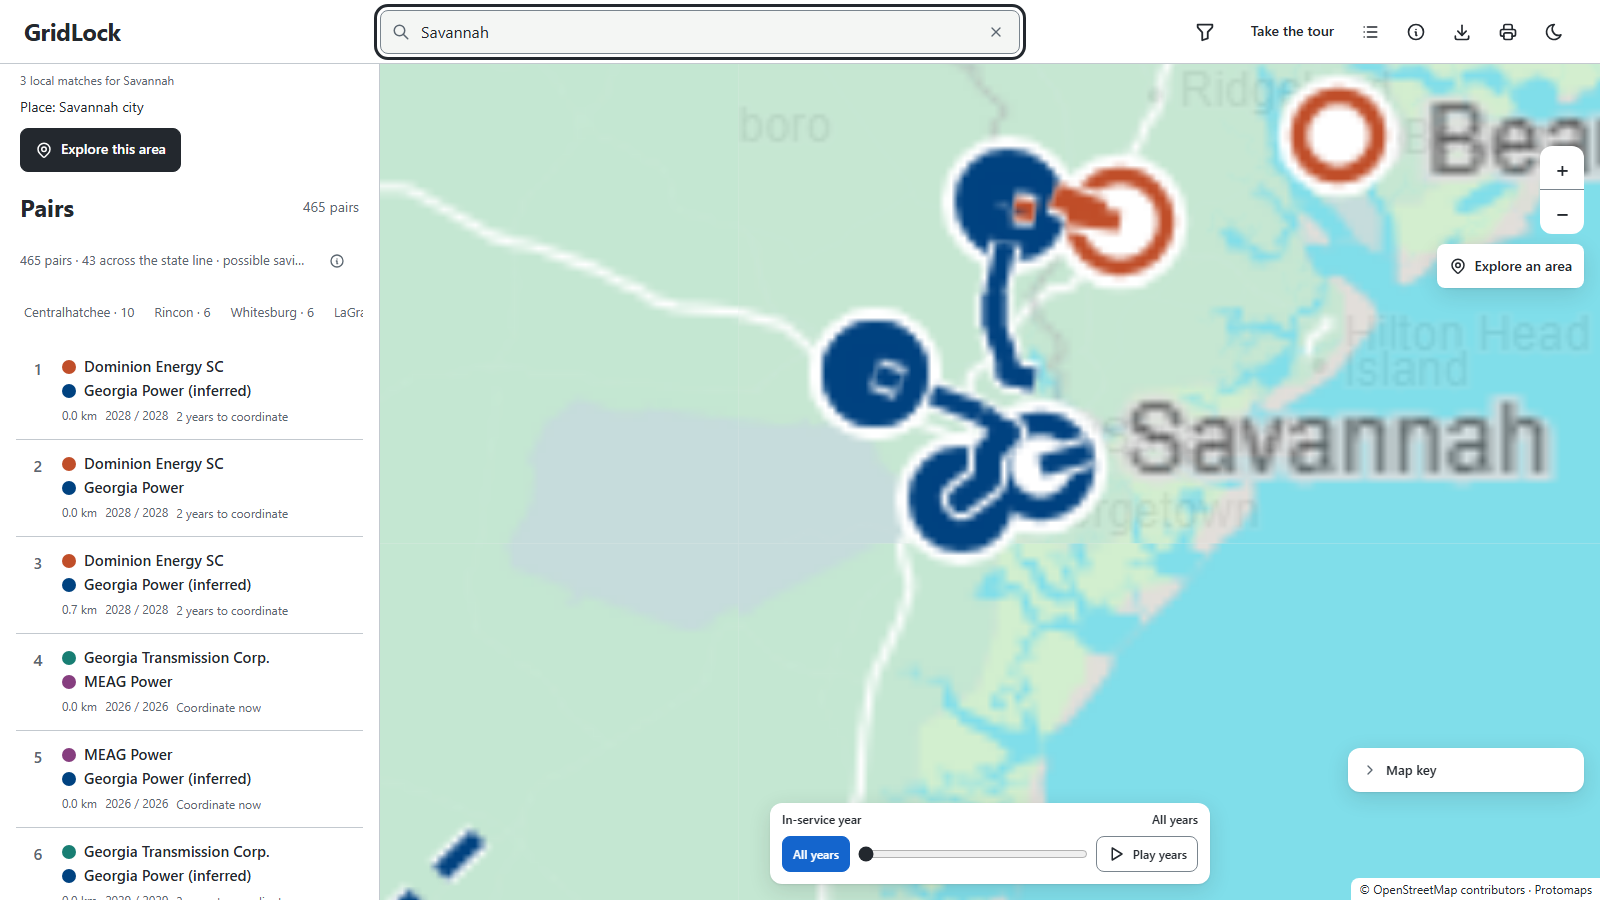
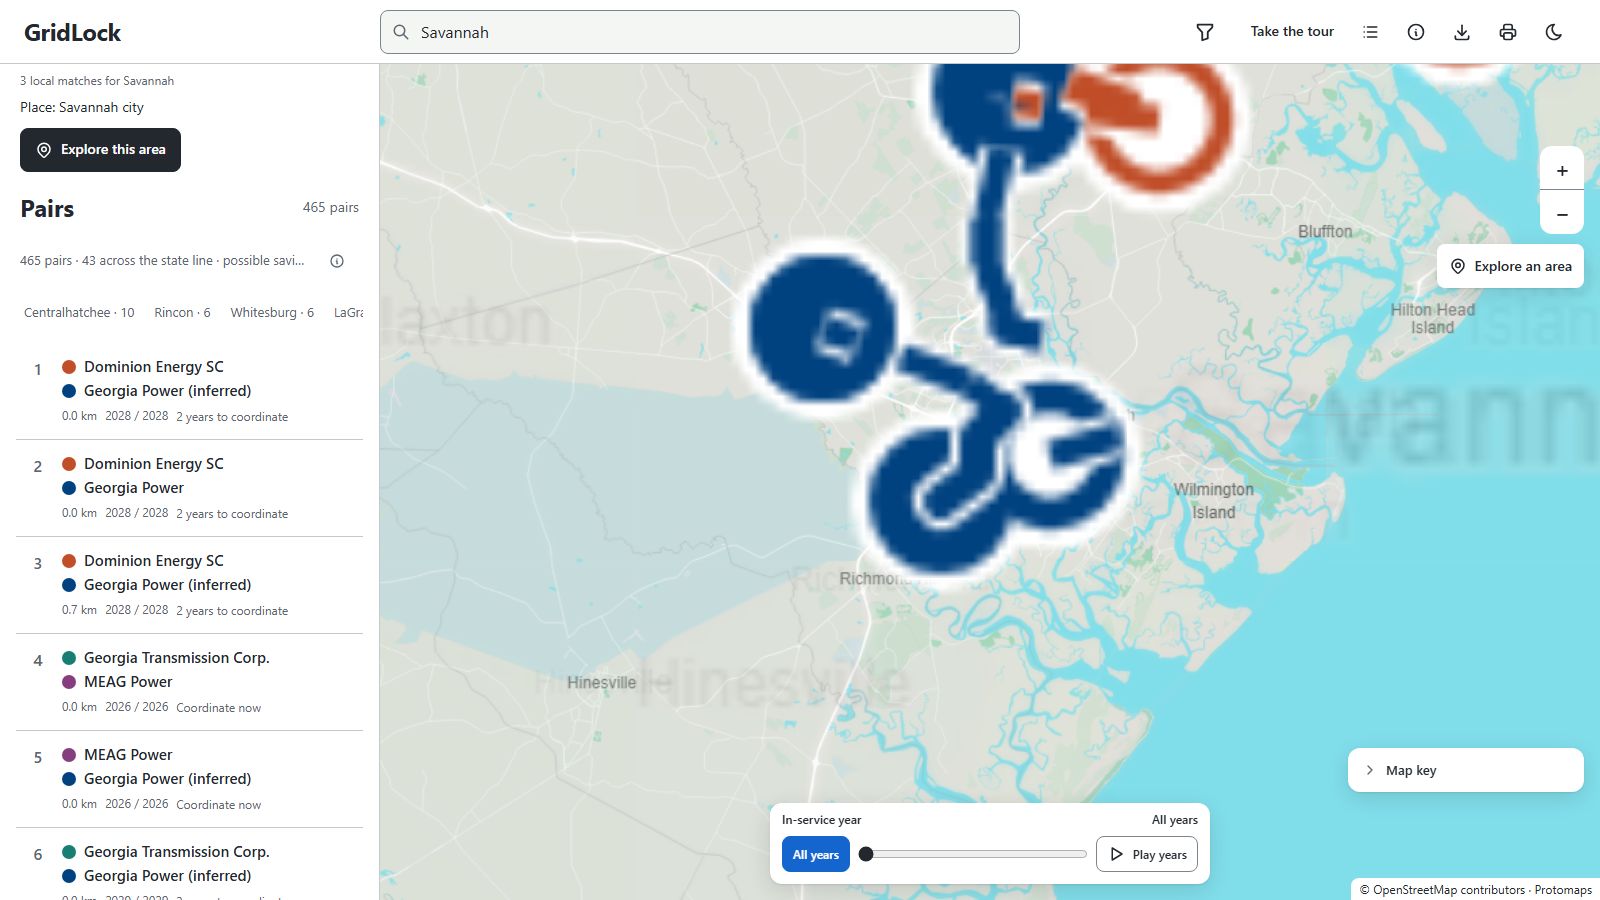
Screenshots retaken so each shows what its caption says; a For judges section in the README
- Explore an area: wait for the search move, then the 40 km circle around Savannah (was zoomed far in).
- Sources, savings, score and tracker: one pair section open at a time, its heading just below the pane's
  header (the first project was hidden under it).
- Area tool: one click near Augusta drops the circle (5 projects, 4 pairs).
- Impact summary shown open; no keyboard focus rings in any picture.
- README: "For judges: see it in two minutes" (screenshots, one-command run, what to try first).

diff --git a/scripts/capture_screenshots.py b/scripts/capture_screenshots.py
@@ -69,8 +69,16 @@ class Shooter:
 
     def save(self, page: Page, name: str) -> None:
         self.settle(page, 600)
+        # A keyboard focus ring from the scripted clicks is not part of the picture.
+        page.evaluate("document.activeElement && document.activeElement.blur && document.activeElement.blur()")
+        page.wait_for_timeout(150)
         page.screenshot(path=str(self.out / f"{name}.png"))
         print("saved", name)
+
+    @staticmethod
+    def map_idle(page: Page, ms: int = 900) -> None:
+        page.wait_for_function("!window.__gl.map._animatingZoom && !window.__gl.map._panAnim?._inProgress", timeout=20000)
+        page.wait_for_timeout(ms)
 
     def open_top_pair(self, page: Page) -> None:
         page.get_by_test_id("overlap-row").first.locator("button").click()
@@ -87,11 +95,24 @@ class Shooter:
 
     def reveal(self, page: Page, selector: str, open_details: bool = True) -> None:
         block = page.locator(selector).first
-        # Pair sections sit in folded disclosures in the right pane: open the one holding the block.
-        block.evaluate("el => { const section = el.closest('details'); if (section) section.open = true; }")
+        # Pair sections sit in folded disclosures in the right pane: open only the one holding the block, then
+        # bring its heading to the top of the pane, just below the pane's sticky header.
+        block.evaluate("""el => {
+          const section = el.closest('details');
+          document.querySelectorAll('.detail-pane details.pair-disclosure').forEach(d => { if (d !== section) d.open = false; });
+          if (section) section.open = true;
+        }""")
         if open_details:
             block.evaluate("el => el.querySelectorAll('details').forEach(d => d.open = true)")
-        block.evaluate("el => el.scrollIntoView({block: 'start'})")
+        block.evaluate("""el => {
+          const section = el.closest('details');
+          const anchor = section ? section.querySelector(':scope > summary') : el;
+          const pane = el.closest('.detail-pane');
+          if (!pane) { anchor.scrollIntoView({block: 'start'}); return; }
+          const bar = pane.querySelector('#detail-bar');
+          const offset = (bar && !bar.hidden ? bar.getBoundingClientRect().height : 0) + 16;
+          pane.scrollTop += anchor.getBoundingClientRect().top - pane.getBoundingClientRect().top - offset;
+        }""")
 
     def search(self, page: Page, place: str) -> None:
         box = page.locator("#search-input")
@@ -167,9 +188,12 @@ def capture(shooter: Shooter, google: bool) -> None:
 
     page = s.page()
     s.search(page, "Savannah")
+    s.map_idle(page)
     page.locator("#explore-area").click()
     expect(page.locator("#area-panel")).to_be_visible()
     expect(page.locator("#area-projects li").first).to_be_attached(timeout=15000)
+    expect(page.get_by_test_id("area-circle")).to_be_attached()
+    s.map_idle(page, 1500)
     s.save(page, "11-explore-area")
     page.close()
 
@@ -220,9 +244,17 @@ def capture(shooter: Shooter, google: bool) -> None:
     page = s.page()
     expect(page.locator("#start-here button").first).to_be_visible()
     page.locator("#start-here").evaluate("el => el.scrollIntoView({block: 'center'})")
+    page.locator("#impact-card summary").click()
+    expect(page.locator("#impact-full")).to_be_visible()
     s.save(page, "19-start-here-and-impact")
+    page.locator("#impact-card summary").click()
     page.locator("#area-mode-toggle").click()
     expect(page.locator("#area-mode-toggle")).to_have_attribute("aria-pressed", "true")
+    box = page.get_by_test_id("map").bounding_box()
+    page.mouse.click(box["x"] + box["width"] * 0.525, box["y"] + box["height"] * 0.33)  # near Augusta
+    expect(page.get_by_test_id("area-circle")).to_be_attached(timeout=15000)
+    expect(page.locator("#area-projects li").first).to_be_attached(timeout=15000)
+    s.map_idle(page, 1500)
     s.save(page, "20-area-tool")
     page.close()
 
@@ -231,7 +263,7 @@ def capture(shooter: Shooter, google: bool) -> None:
     expect(page.locator("#pair-tracker")).to_be_visible()
     page.locator("#tracker-status").select_option("Contacted")
     page.locator("#tracker-notes").fill("Example: ask Dominion Energy SC where the Deerfield switching station will be.")
-    page.locator("#pair-tracker").evaluate("el => el.scrollIntoView({block: 'center'})")
+    s.reveal(page, "#pair-tracker", open_details=False)
     s.save(page, "21-coordination-tracker")
     page.close()
 
@@ -241,9 +273,11 @@ def capture(shooter: Shooter, google: bool) -> None:
     if storm.ok:
         page = s.page()
         s.search(page, "Savannah")
+        s.map_idle(page)
         page.locator("#explore-area").click()
         expect(page.locator("#area-panel")).to_be_visible()
         expect(page.locator("#area-projects li").first).to_be_attached(timeout=15000)
+        s.map_idle(page)
         page.locator("#storm-lab").evaluate("el => el.scrollIntoView({block: 'center'})")
         page.get_by_role("button", name="Invoke storm", exact=True).click()
         expect(page.get_by_test_id("storm-symbol")).to_be_attached(timeout=20000)

diff --git a/docs/DEMO.md b/docs/DEMO.md
@@ -28,7 +28,7 @@ written for a first-time visitor. This step gives the whole ranking formula with
 Planners start from a place. Search a city, project or substation in the top bar; choosing a result moves the
 map.
 
-![Start here: the five places where close pairs cluster, and the impact line for the current results](screenshots/19-start-here-and-impact.png)
+![The impact summary of the current results: pairs, cross-state pairs, possible savings and the utilities with the most pairs](screenshots/19-start-here-and-impact.png)
 
 New here? **Start here** offers the five places where close pairs cluster, such as Rincon, next to the
 McIntosh pairs. One click opens a 10 km area there. The list header sums up the current results: how many
@@ -103,7 +103,7 @@ Choose a place and **Explore this area** to list every project and pair inside a
 1 to 80 km. On the map, the **Explore an area** button does the same for any point. Switch it on, then click
 the map; a plain map click never drops a circle.
 
-![The Explore an area button switched on, asking for a click on the map](screenshots/20-area-tool.png)
+![Explore an area on the map: switched on, one click drops a 40 km circle and lists what is inside](screenshots/20-area-tool.png)
 
 ## 12. Invoke a storm over an area (Resilience Lab preview)
 

diff --git a/README.md b/README.md
@@ -10,6 +10,24 @@ Built for ShellHacks 2026, Sperry Tech GridLock Challenge. It compares Dominion 
 security, tests): [docs/ARCHITECTURE.md](docs/ARCHITECTURE.md)** · **The exact rules: [docs/METHODOLOGY.md](docs/METHODOLOGY.md)**
 · **Live demo script and Q&A: [docs/PITCH.md](docs/PITCH.md)**
 
+## For judges: see it in two minutes
+
+1. **Without installing anything:** [docs/DEMO.md](docs/DEMO.md) walks through every feature in screenshots, and the
+   Devpost page has a short demo video.
+2. **Run it on Windows, macOS or Linux** (needs Python 3.12 and Git; or use **Code → Download ZIP** and unzip):
+
+   ```
+   git clone https://github.com/Lusangim/Shell_Hacks.git
+   cd Shell_Hacks
+   python run.py
+   ```
+
+   Use `python3 run.py` on macOS and Linux. The first run installs the pinned packages (a few minutes) and then
+   opens http://127.0.0.1:8765; add `--no-map` to skip the optional 220 MB street map. The double-click
+   scripts `SETUP` and `START` below do the same.
+3. **Try first:** click pair **#1** and open **How this pair ranks**; search **Savannah**, choose **Explore this
+   area**, then **Invoke storm**; or press **Take the tour** for the 12-step guided walk.
+
 ## At a glance
 
 | | |
